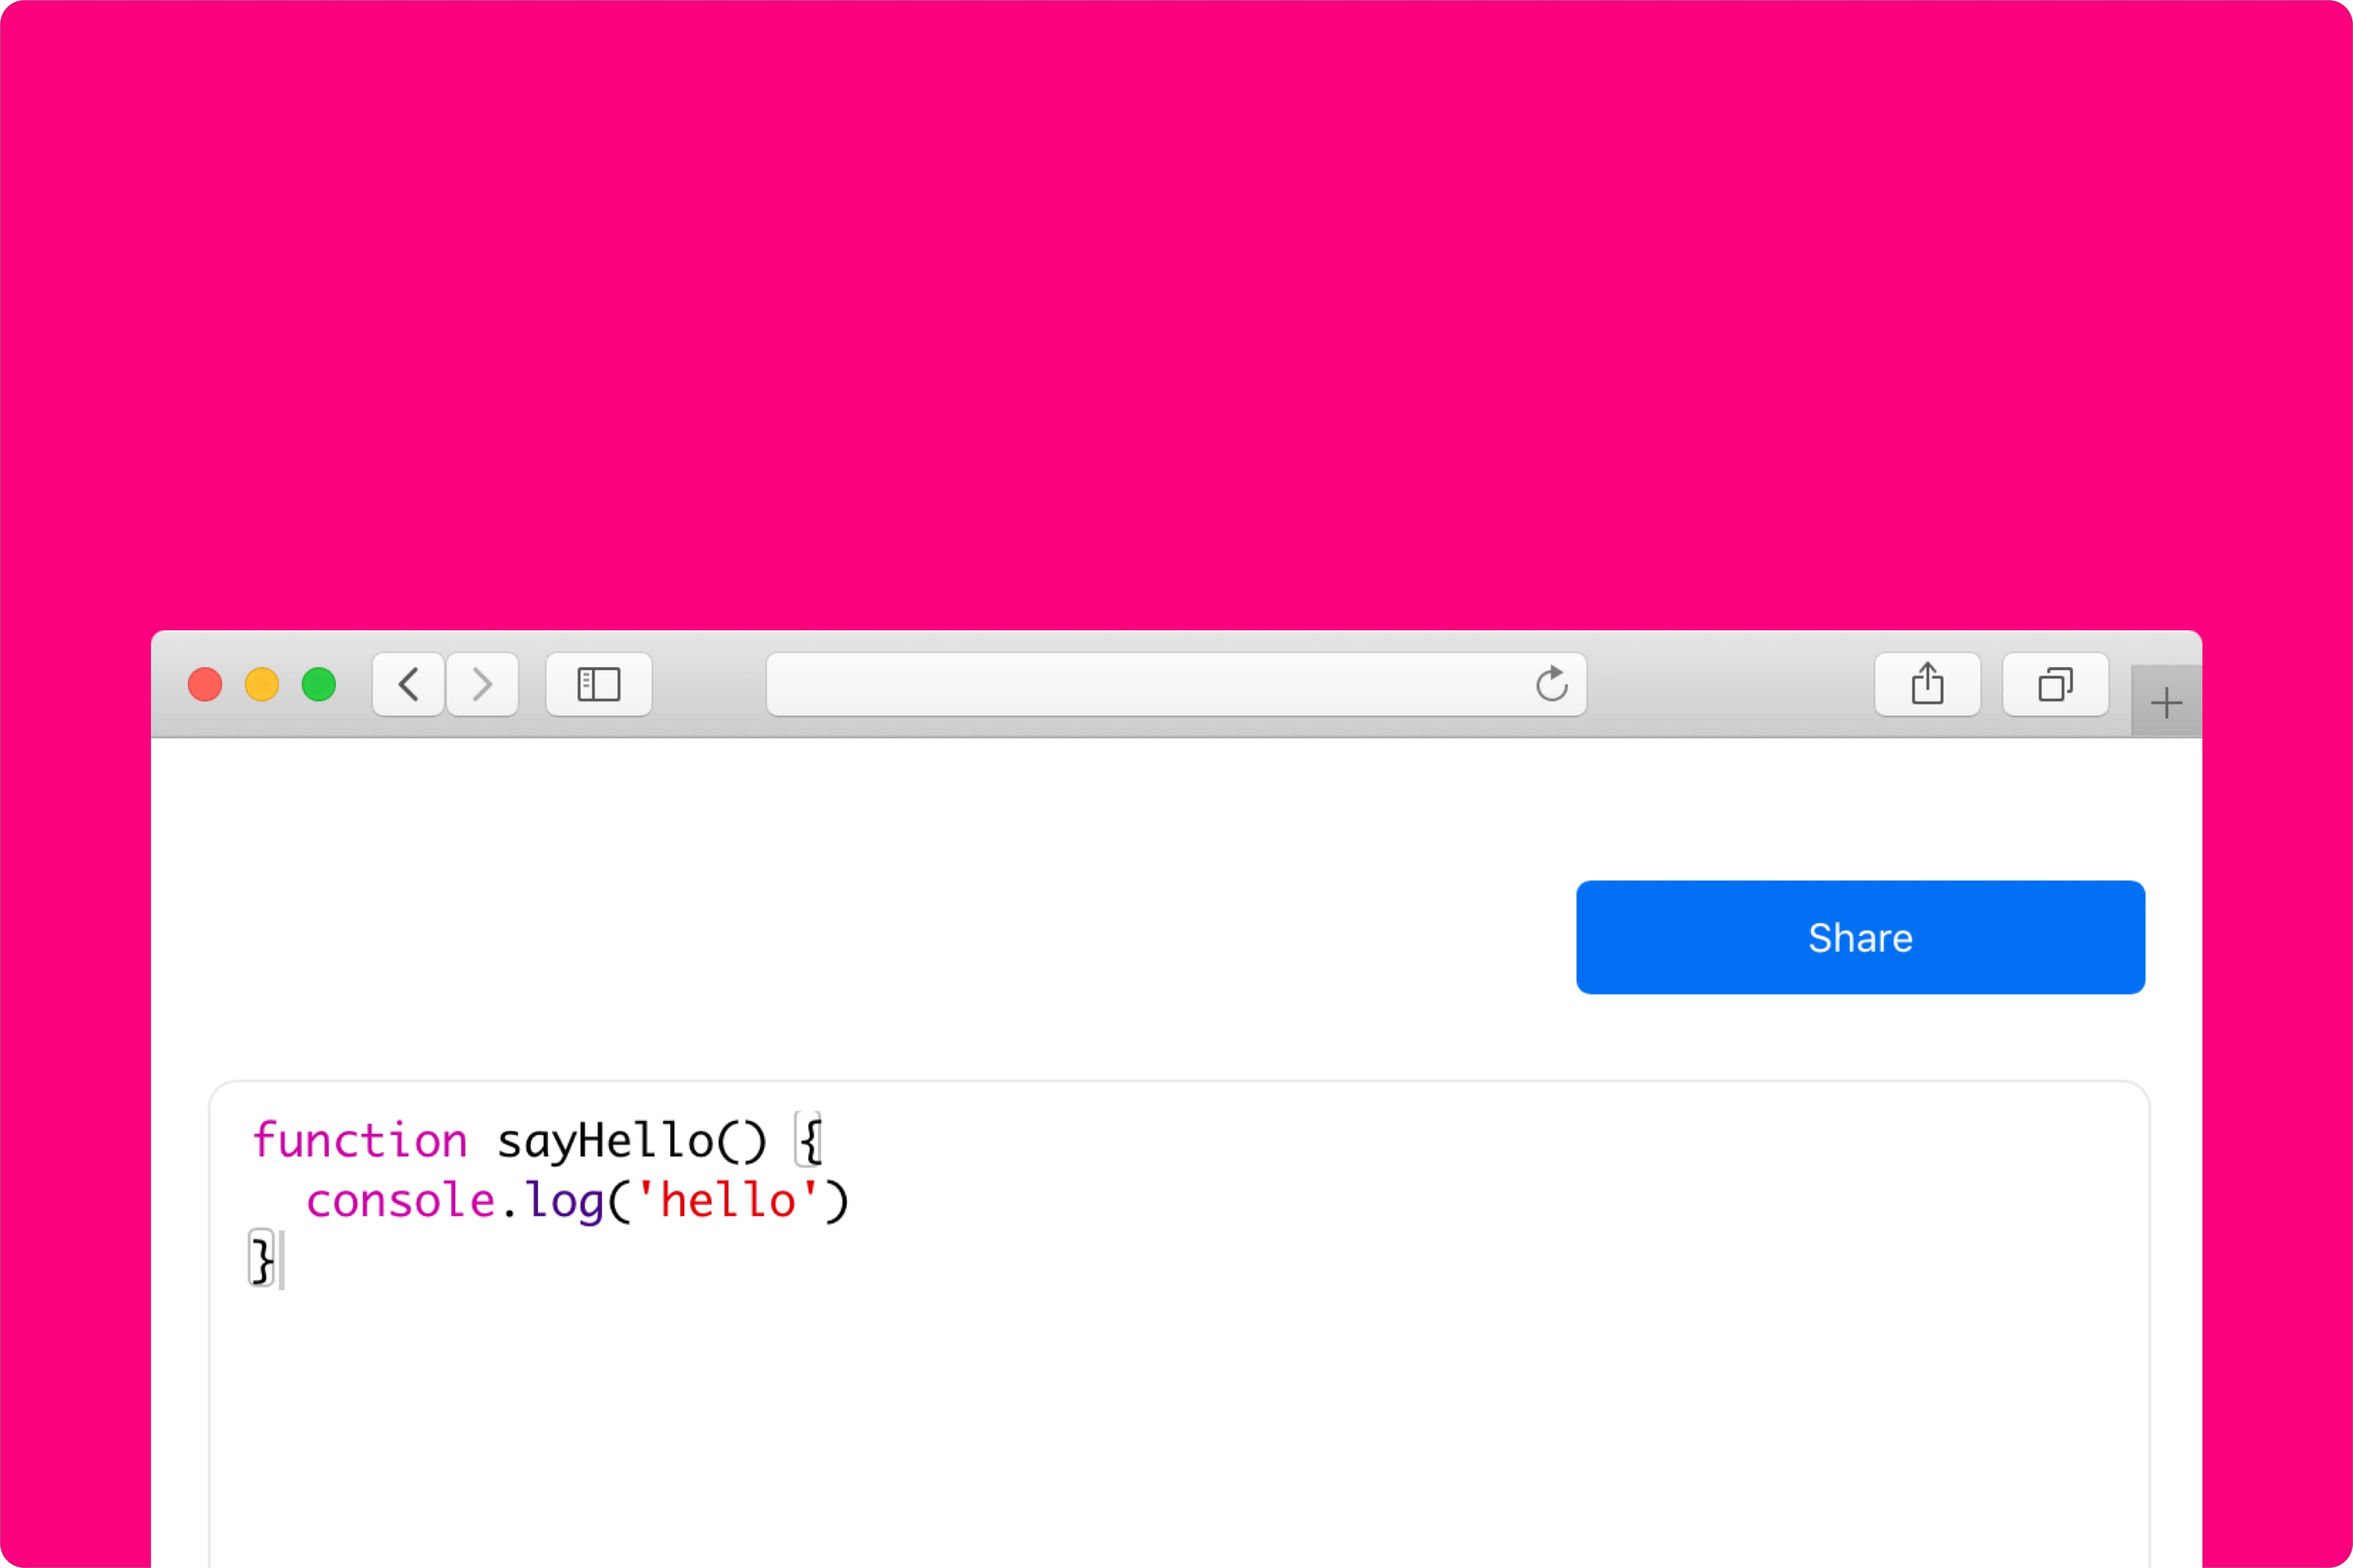
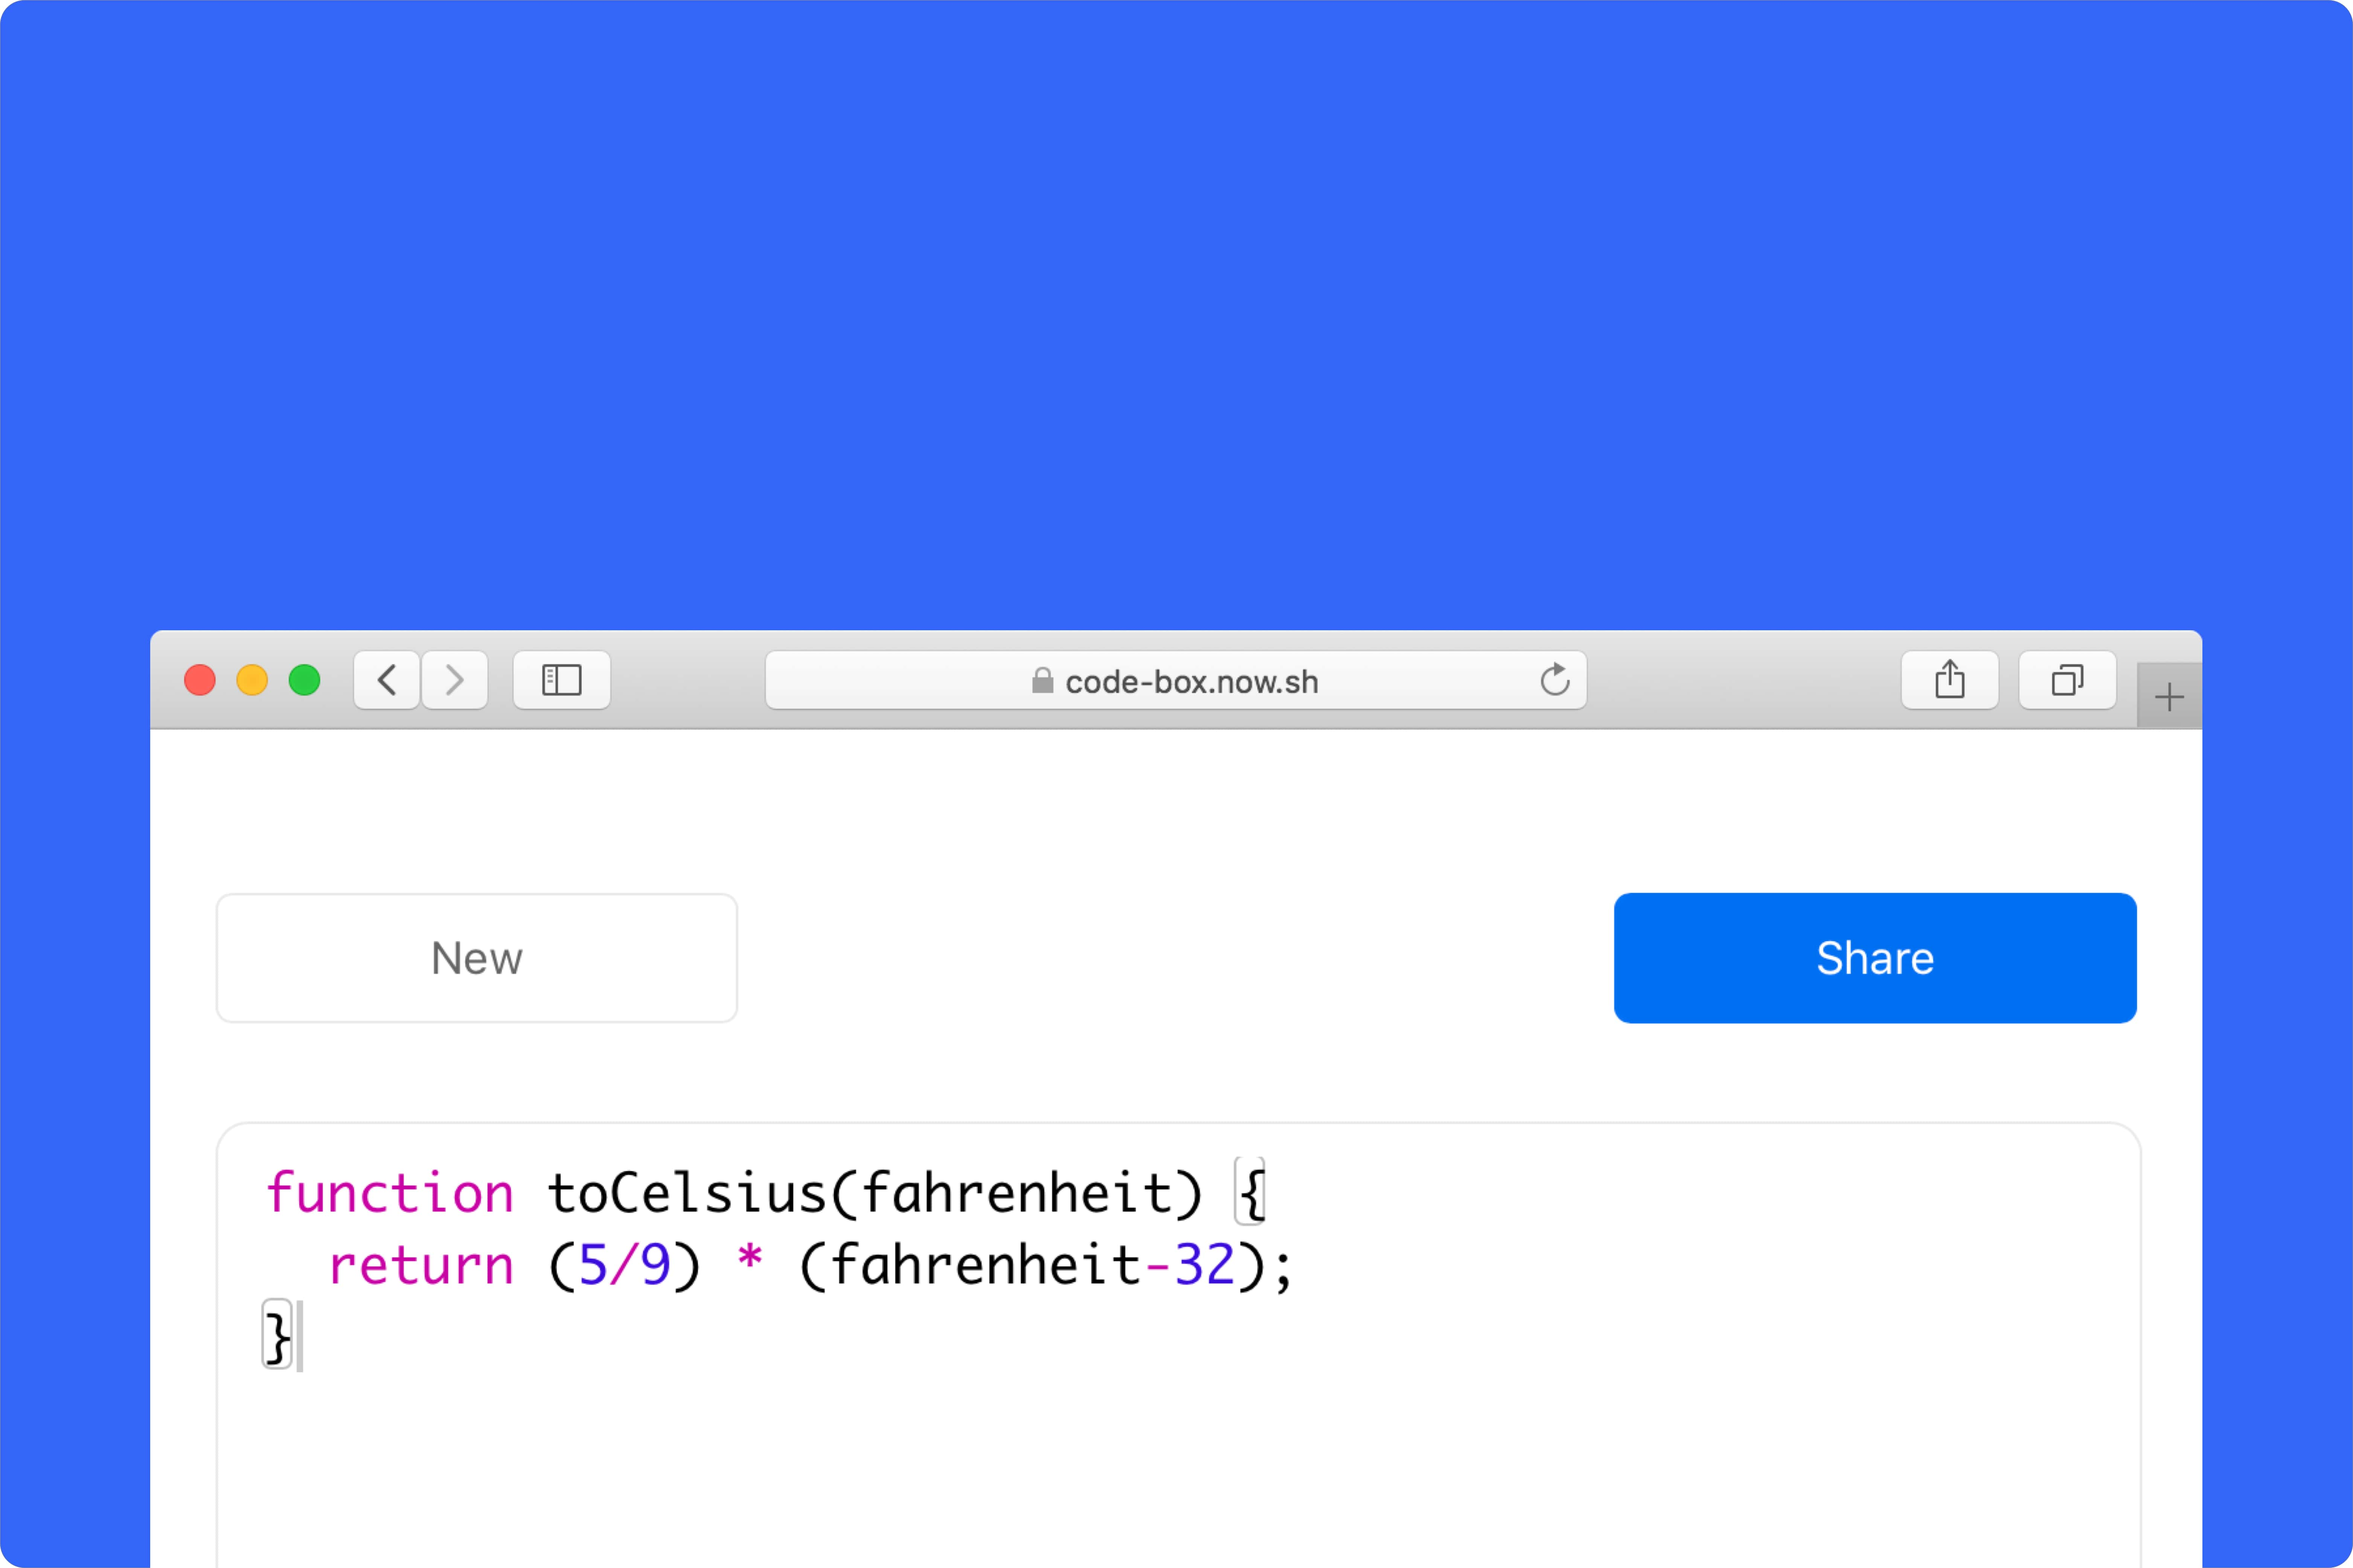
add content

diff --git a/pages/index.js b/pages/index.js
@@ -15,10 +15,14 @@ export default function IndexPage() {
       <Header />
       <Content>
         <ContentBlock
-          title='snippet-box'
+          title='code-box'
           description='A web app where you can share code snippets with others.'
           image='/1.jpg'
           tags={[
+            {
+              name: 'View demo',
+              url: 'https://code-box.now.sh'
+            },
             {
               name: 'View on Github',
               url: 'https://github.com/mustafa-turk/code-box'
@@ -38,22 +42,6 @@ export default function IndexPage() {
             {
               name: 'View on NPM',
               url: 'https://www.npmjs.com/package/react-native-awesome-select'
-            }
-          ]}
-        />
-
-        <ContentBlock
-          title='eksi-chrome-ext'
-          description='A Chrome extension that shows a random post of eksisözlük on a new tab using an API built with Node.js. Used the web scraping technique to retrieve data from the website.'
-          image='/3.jpg'
-          tags={[
-            {
-              name: 'View on Github (BE)',
-              url: 'https://github.com/mustafa-turk/eksi-scraper'
-            },
-            {
-              name: 'View on Github (FE)',
-              url: 'https://github.com/mustafa-turk/eksi-chrome-ext'
             }
           ]}
         />
